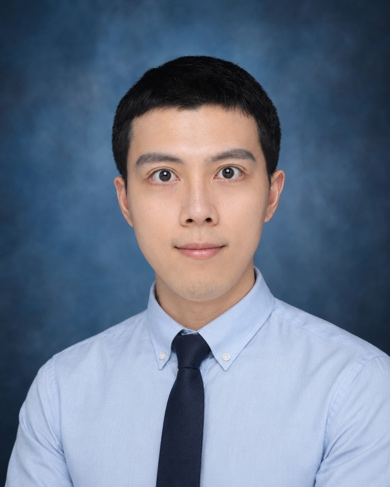
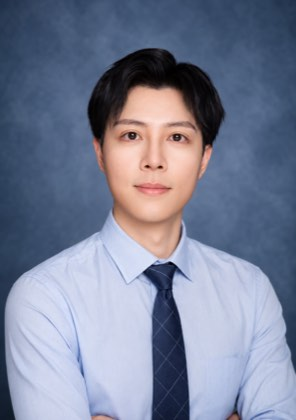
Update Yiding Shao photo

diff --git a/index.html b/index.html
@@ -432,7 +432,7 @@
               <div class="member"><img src="assets/member-01.jpeg" alt="钟梦林" /><div><strong data-lang="zh">钟梦林</strong><strong data-lang="en">Menglin Zhong</strong><span data-lang="zh">宁波大学2025级骨科学专硕</span><span data-lang="en">2025 M.Med. candidate in Orthopedics, Ningbo University</span><span data-lang="zh">生物压电、3D打印与跟腱病</span><span data-lang="en">Bioelectricity, 3D printing, and tendon disease</span></div></div>
               <div class="member"><img src="assets/member-02.jpeg" alt="王轲瑜" /><div><strong data-lang="zh">王轲瑜</strong><strong data-lang="en">Keyu Wang</strong><span data-lang="zh">温州医科大学2025级骨科学专硕</span><span data-lang="en">2025 M.Med. candidate in Orthopedics, Wenzhou Medical University</span><span data-lang="zh">核壳微球、气体疗法与跟腱病</span><span data-lang="en">Core-shell microspheres, gas therapy, and tendon disease</span></div></div>
               <div class="member"><img src="assets/member-03.jpeg" alt="李家骏" /><div><strong data-lang="zh">李家骏</strong><strong data-lang="en">Jiajun Li</strong><span data-lang="zh">温州医科大学2025级骨科学专硕</span><span data-lang="en">2025 M.Med. candidate in Orthopedics, Wenzhou Medical University</span><span data-lang="zh">核壳微针、金属-药物网络与跟腱病</span><span data-lang="en">Core-shell microneedles, metal-drug networks, and tendon disease</span></div></div>
-              <div class="member"><img src="assets/member-04.jpeg" alt="邵一丁" /><div><strong data-lang="zh">邵一丁</strong><strong data-lang="en">Yiding Shao</strong><span data-lang="zh">宁波大学2024级临床医学学硕</span><span data-lang="en">2024 M.Med. candidate in Clinical Medicine, Ningbo University</span><span data-lang="zh">水凝胶与跟腱缺损</span><span data-lang="en">Hydrogels and tendon defects</span></div></div>
+              <div class="member"><img src="assets/member-04.jpeg?v=20260715" alt="邵一丁" /><div><strong data-lang="zh">邵一丁</strong><strong data-lang="en">Yiding Shao</strong><span data-lang="zh">宁波大学2024级临床医学学硕</span><span data-lang="en">2024 M.Med. candidate in Clinical Medicine, Ningbo University</span><span data-lang="zh">水凝胶与跟腱缺损</span><span data-lang="en">Hydrogels and tendon defects</span></div></div>
               <div class="member"><img src="assets/member-05.jpeg" alt="杨雯" /><div><strong data-lang="zh">杨雯</strong><strong data-lang="en">Wen Yang</strong><span data-lang="zh">宁波大学2025级临床医学学硕</span><span data-lang="en">2025 M.Med. candidate in Clinical Medicine, Ningbo University</span><span data-lang="zh">脱细胞基质水凝胶与跟腱缺损</span><span data-lang="en">Decellularized matrix hydrogels and tendon defects</span></div></div>
               <div class="member"><img src="assets/member-06.jpeg" alt="任天一" /><div><strong data-lang="zh">任天一</strong><strong data-lang="en">Tianyi Ren</strong><span data-lang="zh">宁波大学2025级机械专硕</span><span data-lang="en">2025 M.Eng. candidate in Mechanical Engineering, Ningbo University</span><span data-lang="zh">静电纺丝支架与跟腱缺损</span><span data-lang="en">Electrospun scaffolds and tendon defects</span></div></div>
             </div>